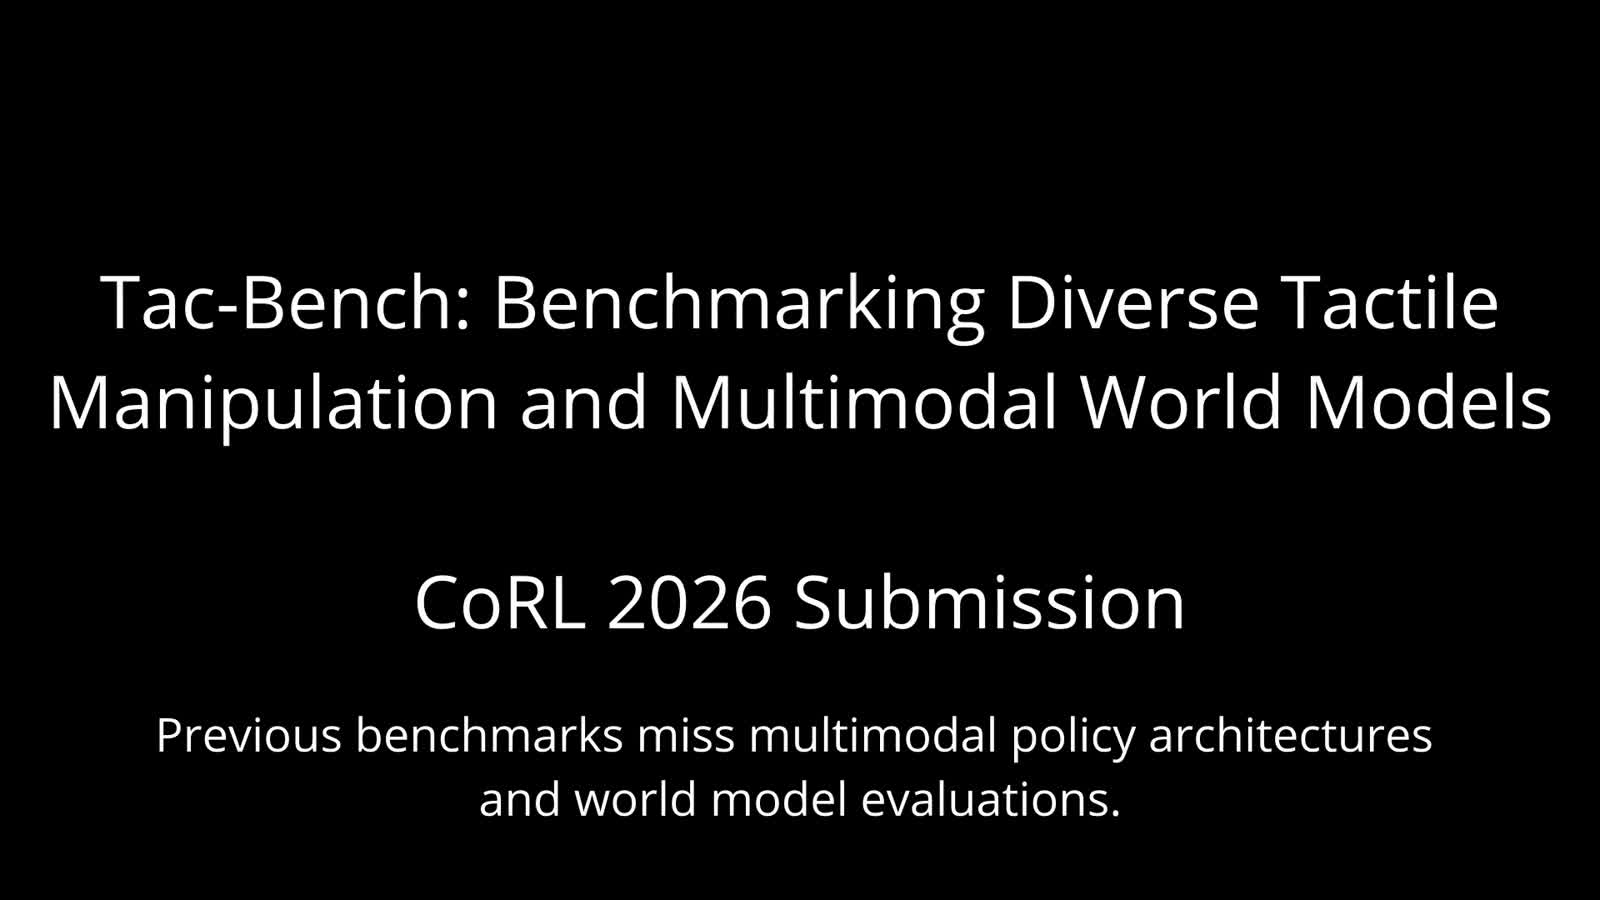
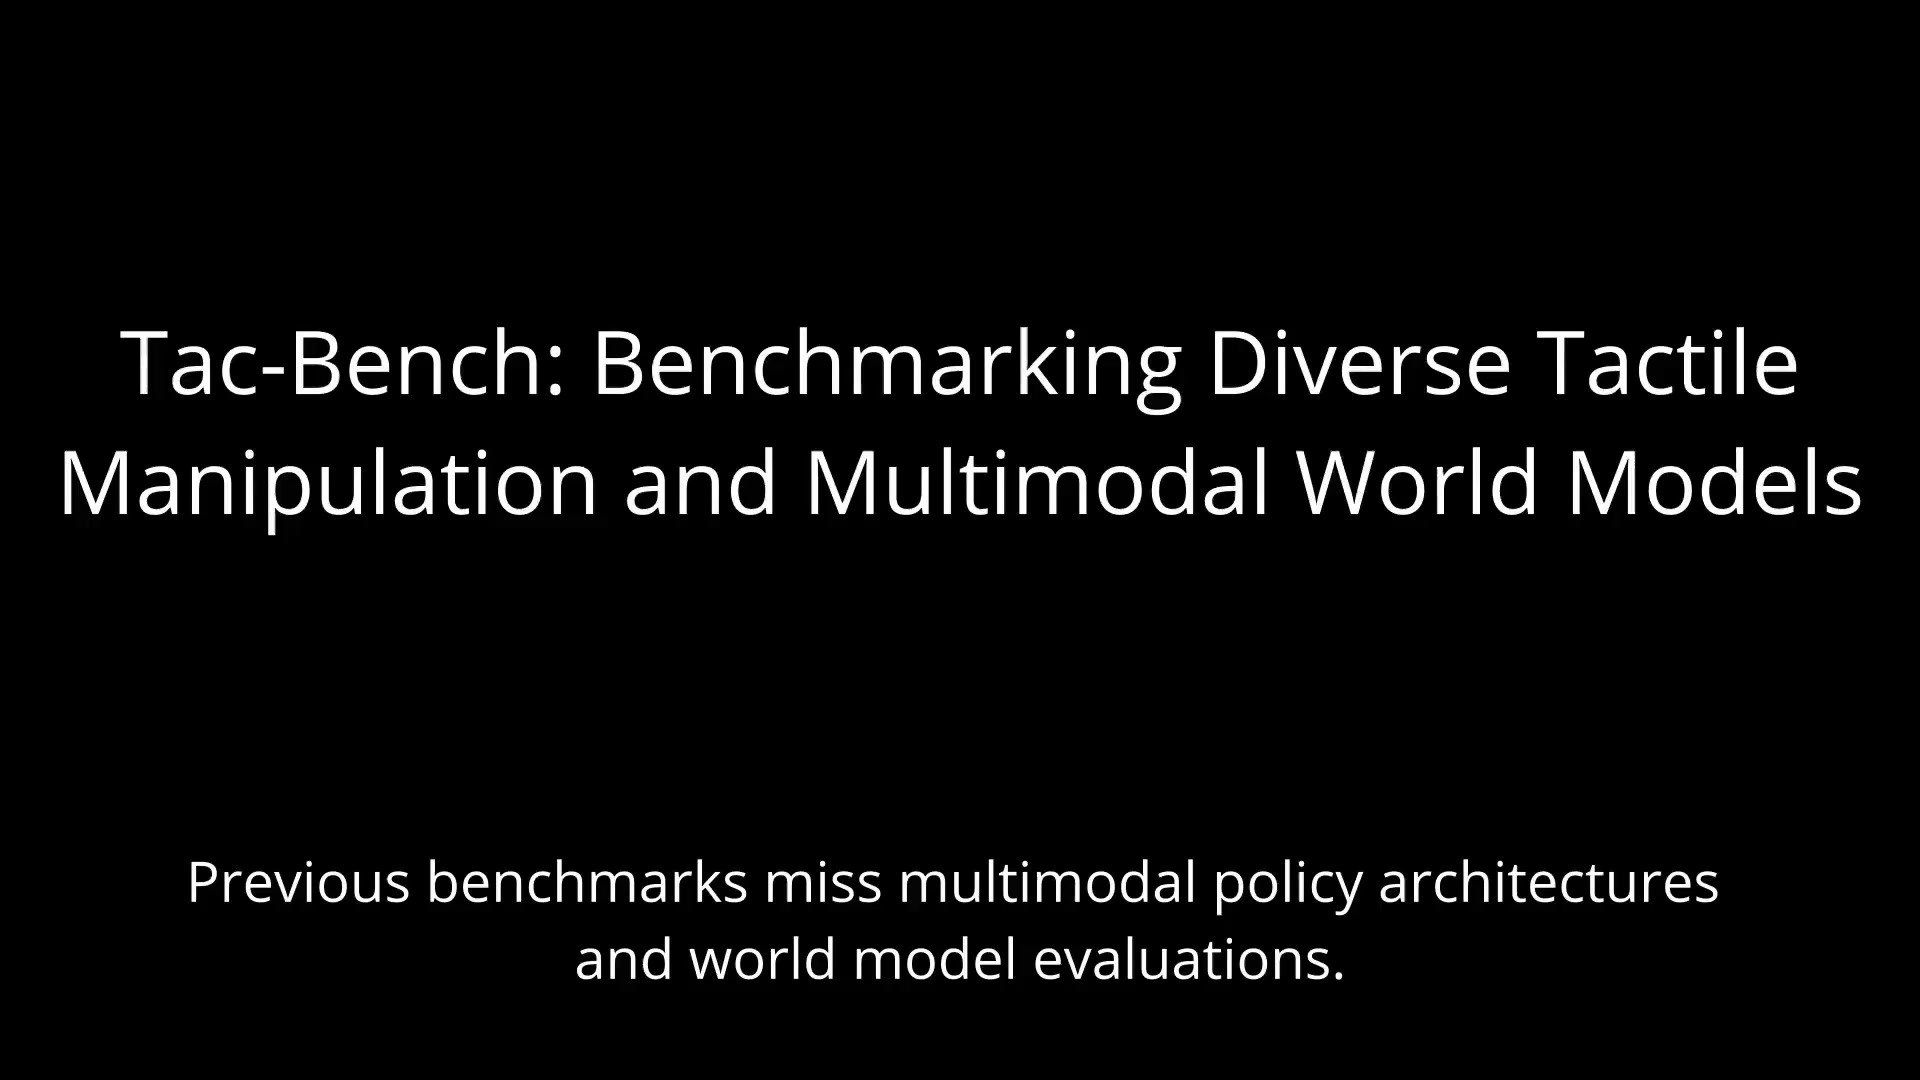
Use current website video first frame as hero poster

Changed region(s): [[0.25, 0.6222, 0.75, 0.7156]]

diff --git a/index.html b/index.html
@@ -73,7 +73,7 @@
             controls
             playsinline
             preload="metadata"
-            poster="static/assets/video/tac-bench-poster.jpg"
+            poster="static/assets/video/tac-bench-poster.jpg?v=2026-09-08"
           >
             <source src="video/website.mov?v=2026-09-08" type="video/mp4" />
           </video>
